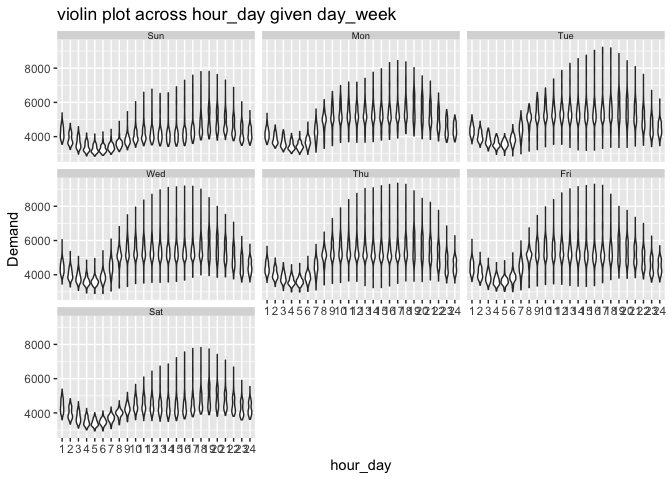
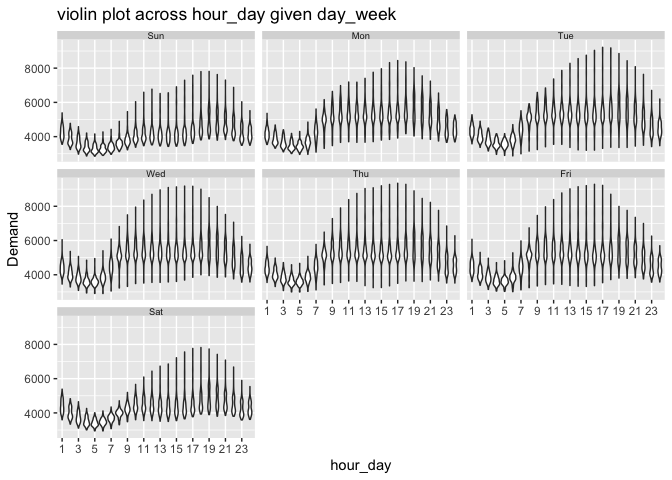
update readme

Changed region(s): [[0.4062, 0.625, 1.0, 0.6562], [0.125, 0.9062, 0.375, 0.9375]]

diff --git a/README.md b/README.md
@@ -29,14 +29,16 @@ following:
 
 ## Installation
 
-You can install the released version of gravitas from
-[CRAN](https://CRAN.R-project.org) with:
+<!-- You can install the released version of gravitas from [CRAN](https://CRAN.R-project.org) with: -->
 
-``` r
-install.packages("gravitas")
-```
+<!-- ``` r -->
 
-And the development version from [GitHub](https://github.com/) with:
+<!-- install.packages("gravitas") -->
+
+<!-- ``` -->
+
+You can install the development version from
+[GitHub](https://github.com/) with:
 
 ``` r
 # install.packages("devtools")
@@ -163,11 +165,12 @@ tsibbledata::vic_elec %>% granplot("hour_day", "day_week", "Demand")
 <img src="man/figures/README-example7-1.png" width="100%" />
 
 If we want to switch the facet and x-axis variable, we simply reverse
-the order of time
-granularities.
+the order of time granularities. Here, granplot would output a ggplot2
+object. So we are free to add any element to the default
+plot.
 
 ``` r
-tsibbledata::vic_elec %>% granplot("day_week", "hour_day", "Demand", plot_type = "violin")
+tsibbledata::vic_elec %>% granplot("day_week", "hour_day", "Demand", plot_type = "violin") + ggplot2::scale_x_discrete(breaks = seq(1,24,2))
 ```
 
 <img src="man/figures/README-example8-1.png" width="100%" />
